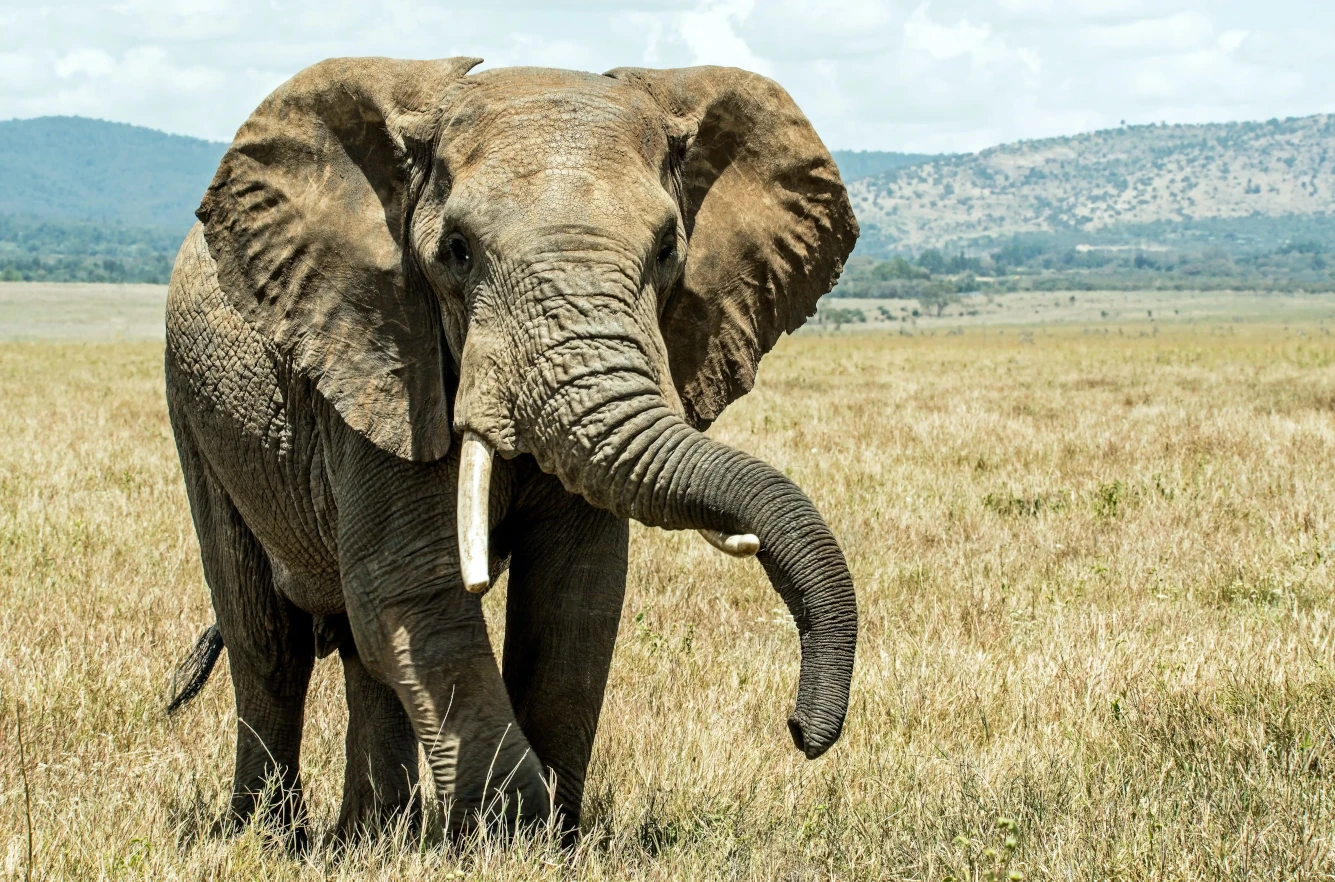
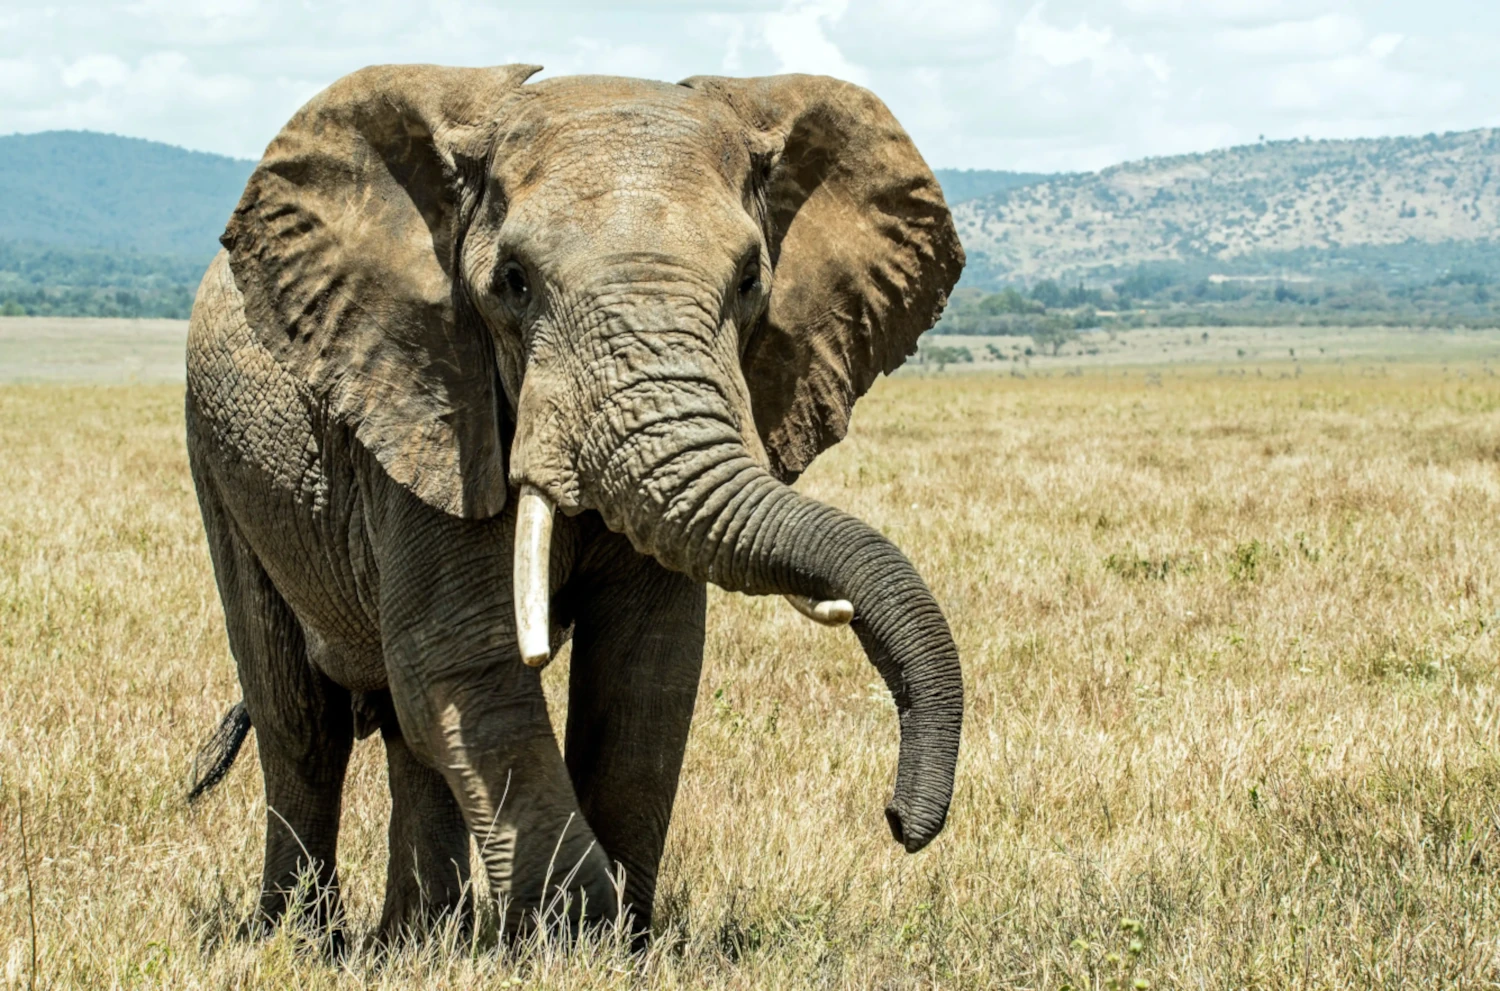
modif photo

diff --git a/index.html b/index.html
@@ -17,7 +17,7 @@
 <body>
 
   <div class="w3-display-container" style="margin-bottom:50px">
-    <img src="img/main_HOME_11zon.webp" style="width:100%" alt="Main Home Image" width ="2381" height="1573">
+    <img src="img/main_HOME_11zon.webp" style="width:100%" alt="Main Home Image" width ="1500" height="991">
     <div class="w3-display-bottomleft w3-container w3-amber w3-hover-orange w3-hide-small"
       style="bottom:10%;opacity:0.7;width:70%">
       <h2><b>Travel Agency (Demo Website)</b></h2>
